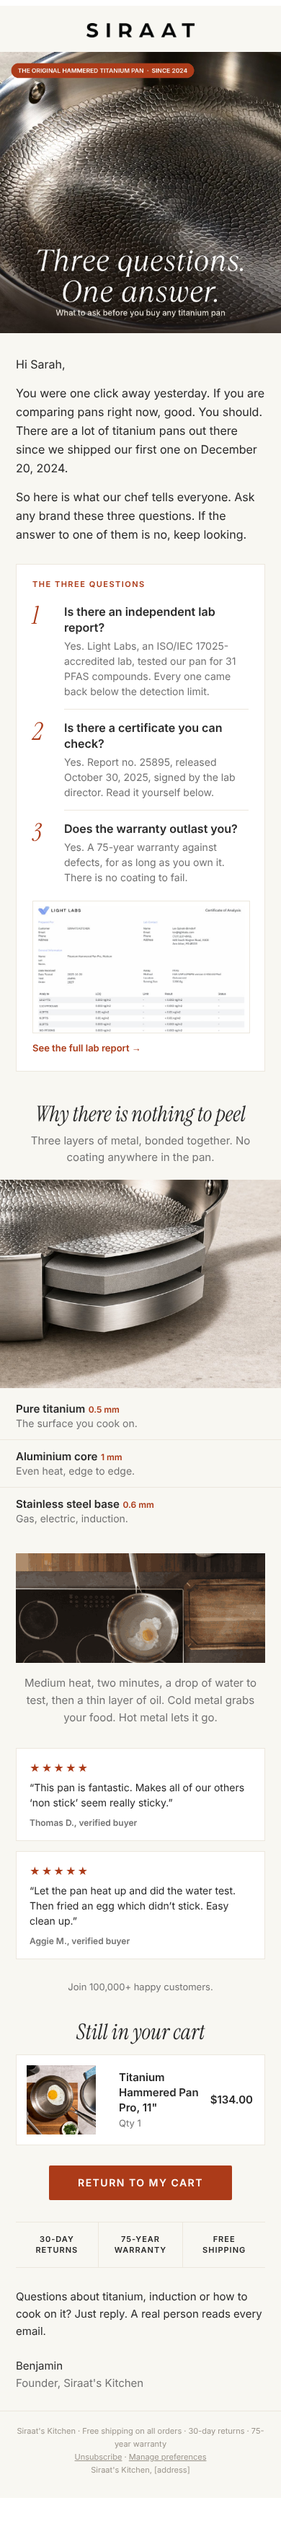
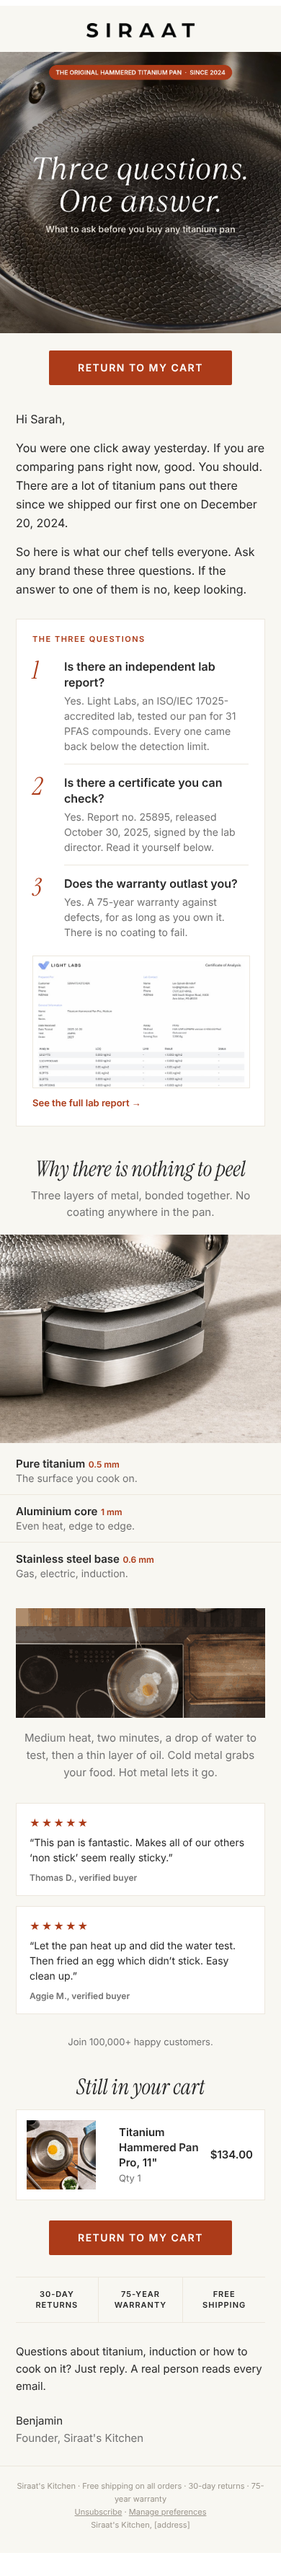
C2: gecentreerde hero en knop onder de hero; make_hero.py en build_template.py; PLAYBOOK hoofdstuk 10
Claude-Session: https://claude.ai/code/session_01HjCaDE95ohEXY6DPZTSH67

Changed region(s): [[0.0, 0.0, 1.0, 0.9977], [0.4615, 0.9665, 0.5231, 0.9977], [0.5538, 0.9665, 0.5846, 0.9977]]

diff --git a/klaviyo/templates/c2-why-siraat.klaviyo.html b/klaviyo/templates/c2-why-siraat.klaviyo.html
@@ -38,7 +38,16 @@
 
 <!-- HERO: shoot photo + TT Ramillas headline baked in -->
 <tr><td style="padding:0;">
-  <a href="{{ event.extra.responsive_checkout_url|default:'https://siraatskitchen.com/cart' }}"><img src="https://cdn.klaviyomail.com/company/TdtTzz/images/eb2b36f3-3a7f-4d87-b083-2fc91c0c451a.jpeg" width="600" alt="Three questions. One answer. What to ask before you buy any titanium pan." style="width:100%;max-width:600px;height:auto;"></a>
+  <a href="{{ event.extra.responsive_checkout_url|default:'https://siraatskitchen.com/cart' }}"><img src="https://cdn.klaviyomail.com/company/TdtTzz/images/df9ba57d-f014-4222-9614-5adf68364bcd.jpeg" width="600" alt="Three questions. One answer. What to ask before you buy any titanium pan." style="width:100%;max-width:600px;height:auto;"></a>
+</td></tr>
+
+<!-- CTA under hero -->
+<tr><td align="center" style="padding:24px 44px 4px 44px;">
+  <table role="presentation" cellpadding="0" cellspacing="0" border="0"><tr>
+    <td align="center" bgcolor="#AC3B19" style="background:#AC3B19;border-radius:2px;">
+      <a href="{{ event.extra.responsive_checkout_url|default:'https://siraatskitchen.com/cart' }}" style="display:inline-block;padding:16px 40px;font-family:Inter,Arial,Helvetica,sans-serif;font-size:14px;line-height:16px;font-weight:600;letter-spacing:1.5px;color:#FFFFFF;text-decoration:none;">RETURN TO MY CART</a>
+    </td>
+  </tr></table>
 </td></tr>
 
 <!-- INTRO -->

diff --git a/klaviyo/templates/c2-why-siraat.html b/klaviyo/templates/c2-why-siraat.html
@@ -41,6 +41,15 @@
   <a href="{{ event.extra.responsive_checkout_url|default:'https://siraatskitchen.com/cart' }}"><img src="{{IMG}}/hero.jpg" width="600" alt="Three questions. One answer. What to ask before you buy any titanium pan." style="width:100%;max-width:600px;height:auto;"></a>
 </td></tr>
 
+<!-- CTA under hero -->
+<tr><td align="center" style="padding:24px 44px 4px 44px;">
+  <table role="presentation" cellpadding="0" cellspacing="0" border="0"><tr>
+    <td align="center" bgcolor="#AC3B19" style="background:#AC3B19;border-radius:2px;">
+      <a href="{{ event.extra.responsive_checkout_url|default:'https://siraatskitchen.com/cart' }}" style="display:inline-block;padding:16px 40px;font-family:Inter,Arial,Helvetica,sans-serif;font-size:14px;line-height:16px;font-weight:600;letter-spacing:1.5px;color:#FFFFFF;text-decoration:none;">RETURN TO MY CART</a>
+    </td>
+  </tr></table>
+</td></tr>
+
 <!-- INTRO -->
 <tr><td class="pad" style="padding:30px 44px 6px 44px;font-family:Inter,Arial,Helvetica,sans-serif;font-size:16px;line-height:26px;color:#282828;">
   <p style="margin:0 0 14px 0;">Hi {{ first_name|default:'there' }},</p>

diff --git a/klaviyo/templates/c2-preview.html b/klaviyo/templates/c2-preview.html
@@ -41,6 +41,15 @@
   <a href="#"><img src="c2-assets/hero.jpg" width="600" alt="Three questions. One answer. What to ask before you buy any titanium pan." style="width:100%;max-width:600px;height:auto;"></a>
 </td></tr>
 
+<!-- CTA under hero -->
+<tr><td align="center" style="padding:24px 44px 4px 44px;">
+  <table role="presentation" cellpadding="0" cellspacing="0" border="0"><tr>
+    <td align="center" bgcolor="#AC3B19" style="background:#AC3B19;border-radius:2px;">
+      <a href="#" style="display:inline-block;padding:16px 40px;font-family:Inter,Arial,Helvetica,sans-serif;font-size:14px;line-height:16px;font-weight:600;letter-spacing:1.5px;color:#FFFFFF;text-decoration:none;">RETURN TO MY CART</a>
+    </td>
+  </tr></table>
+</td></tr>
+
 <!-- INTRO -->
 <tr><td class="pad" style="padding:30px 44px 6px 44px;font-family:Inter,Arial,Helvetica,sans-serif;font-size:16px;line-height:26px;color:#282828;">
   <p style="margin:0 0 14px 0;">Hi Sarah,</p>

diff --git a/scripts/make_hero.py b/scripts/make_hero.py
@@ -1,0 +1,35 @@
+"""Siraat e-mail hero: foto + kop (TT Ramillas) + subregel, altijd exact gecentreerd.
+Gebruik: python3 -I scripts/make_hero.py <foto> <uit.jpg> "<kopregel 1|kopregel 2>" "<subregel>" ["<LABEL>"]
+- Kop en subregel staan als blok precies in het midden van het beeld (horizontaal en verticaal).
+- Gelijkmatige donkere laag plus een zachte vignet in het midden, zodat de tekst op elke foto leesbaar is.
+- 1200x1200 (vierkant), uitsnede uit het midden van de foto.
+"""
+import sys
+from PIL import Image, ImageDraw, ImageFont, ImageFilter
+R='/home/user/siraat-email-agent/'
+TT=R+'klaviyo/fonts/TTRamillas-LightItalic.ttf'
+INTERM='/usr/share/fonts/opentype/inter/Inter-Medium.otf'
+INTERS='/usr/share/fonts/opentype/inter/Inter-SemiBold.otf'
+src,out,head,sub=sys.argv[1:5]; label=sys.argv[5] if len(sys.argv)>5 else ''
+S=1200
+im=Image.open(src).convert('RGB'); w,h=im.size; m=min(w,h)
+im=im.crop(((w-m)//2,(h-m)//2,(w-m)//2+m,(h-m)//2+m)).resize((S,S),Image.LANCZOS)
+# overall darken + soft centre darkening for contrast
+dark=Image.new('RGB',(S,S),(18,13,11)); im=Image.blend(im,dark,0.30)
+mask=Image.new('L',(S,S),0); md=ImageDraw.Draw(mask); md.ellipse((80,330,S-80,S-330),fill=150); mask=mask.filter(ImageFilter.GaussianBlur(140))
+im=Image.composite(dark,im,mask)
+d=ImageDraw.Draw(im)
+fh=ImageFont.truetype(TT,132); fs=ImageFont.truetype(INTERM,38)
+lines=head.split('|'); lh=138; gap=52
+sub_h=46 if sub else 0
+block=len(lines)*lh+(gap+sub_h if sub else 0)
+y=(S-block)//2 - 8
+for ln in lines:
+    tw=d.textlength(ln,font=fh); d.text(((S-tw)/2,y),ln,font=fh,fill=(255,255,255)); y+=lh
+if sub:
+    y+=gap; tw=d.textlength(sub,font=fs); d.text(((S-tw)/2,y),sub,font=fs,fill=(240,236,228))
+if label:
+    fl=ImageFont.truetype(INTERS,26); tw=d.textlength(label,font=fl)
+    x0=(S-tw-56)/2; y0=56
+    d.rounded_rectangle((x0,y0,x0+tw+56,y0+62),radius=31,fill=(172,59,25)); d.text((x0+28,y0+15),label,font=fl,fill=(255,255,255))
+im.save(out,quality=84); print(out)

diff --git a/scripts/build_template.py b/scripts/build_template.py
@@ -1,0 +1,18 @@
+"""Bouwt Klaviyo-HTML en een lokale preview uit een bron-template met {{IMG}}.
+Gebruik: python3 -I scripts/build_template.py <bron.html> <assets-map> <urls.txt>
+Schrijft <bron>.klaviyo.html (CDN-links) en <bron-zonder-.html>-preview.html (lokale beelden, voorbeelddata)."""
+import sys,re,os
+src,assets,urls=sys.argv[1:4]
+u=dict(l.split() for l in open(urls) if l.strip())
+h=open(src).read(); k=h
+for a,b in sorted(u.items(),key=lambda x:-len(x[0])): k=k.replace('{{IMG}}/'+a,b)
+assert '{{IMG}}' not in k, 'ontbrekende CDN-link'
+base=src[:-5]; open(base+'.klaviyo.html','w').write(k)
+p=h.replace('{{IMG}}',os.path.basename(assets.rstrip('/')))
+m=re.search(r'\{% for item in event.extra.line_items %\}\{% if forloop.counter <= 3 %\}(.*?)\{% endif %\}\{% endfor %\}',p,re.S)
+if m:
+    r=re.sub(r"\{\{ item.product.images.0.src[^}]*\}\}",os.path.basename(assets.rstrip('/'))+'/cart-fallback.jpg',m.group(1)).replace('{{ item.title }}','Titanium Hammered Pan Pro, 11"').replace('{{ item.quantity|floatformat:0 }}','1').replace('{{ item.line_price|floatformat:2 }}','134.00')
+    p=p[:m.start()]+r+p[m.end():]
+p=re.sub(r"\{\{ first_name[^}]*\}\}",'Sarah',p);p=re.sub(r"\{\{ event[^}]*\}\}",'#',p)
+p=p.replace("{% unsubscribe 'Unsubscribe' %}",'<a href="#" style="color:#9A948B;">Unsubscribe</a>').replace('{% manage_preferences_url %}','#').replace('{{ organization.name }}',"Siraat's Kitchen").replace('{{ organization.full_address }}','[address]')
+open(base+'-preview.html','w').write(p); print('ok',base)

diff --git a/PLAYBOOK.md b/PLAYBOOK.md
@@ -97,3 +97,10 @@ Let op: de brand guidelines (site) gebruiken Inter voor koppen en Terracotta #C7
 - Cloud-sessies in "Auto"-modus blokkeren wijzigingen aan live flows, ook met mondeling akkoord. Voor bouwwerk aan live flows: gewone modus en één keer "Allow".
 - Klaviyo-API-key zit als credential in de omgeving (header Authorization: Klaviyo-API-Key, host a.klaviyo.com). Scopes: flows full, templates read, metrics read, segments read. Voor campagnes en profielen is een aparte key nodig.
 - Routines (geplande taken) uit een sessie krijgen geen connectors mee. Routines die Slack of Klaviyo-MCP nodig hebben, worden in de claude.ai Routines-UI aangemaakt met de prompt uit `ROUTINES.md`.
+
+## 10. Vaste opbouw van een flow-mail (vanaf 7 oktober 2026)
+
+- Hero 1200x1200 via `scripts/make_hero.py`: kop in TT Ramillas en subregel als blok exact in het midden van het beeld, label bovenin gecentreerd. Altijd een shoot-foto of geverifieerde Shopify-foto, nooit twee keer dezelfde in één flow.
+- Direct onder de hero de primaire knop (in checkout en cart: "Return to my cart"). Dezelfde knop nog één keer onderaan.
+- HTML en preview bouwen met `scripts/build_template.py`; beelden in de Klaviyo-bibliotheek, links in `<assets>/klaviyo-urls.txt`.
+- Beelden met labels krijgen op mobiel een aparte versie zonder labels plus live tekst eronder.

diff --git a/LOG.md b/LOG.md
@@ -50,3 +50,4 @@ Nieuwste bovenaan. Elke regel: datum, wat er gedaan is, wat het opleverde of wat
 - 2026-10-07 · Voorbeeldmail C2 Why Siraat gebouwd als nieuwe standaard (template Yn7nyJ, niet live). 65 eigen beelden naar Shopify Files (email-*). Register af. Trustpilot nog geblokkeerd in deze container.
 - 2026-10-07 · Baselines vastgelegd (baselines/, 90 dagen tot 6 okt): flows 10,8% van omzet, welcome $2,53 per nieuwe inschrijver, checkout-recovery 0,97%, campagnes tekst $0,118 vs beeld $0,080 per ontvanger, uitschrijf 0,54%, spam 0,042%. C2-voorbeeld in Figma kit (04 Samples).
 - 2026-10-07 · C2: getekende lagen vervangen door fotorealistische doorsnede (Higgsfield gpt_image_2_5 met shoot-foto P11-C als referentie, labels in Inter via scripts/label_anatomy.py). Mobiel: aparte uitsnede plus lagen als live tekst. Template Yn7nyJ bijgewerkt.
+- 2026-10-07 · C2: hero met kop en subregel exact gecentreerd (scripts/make_hero.py), knop Return to my cart direct onder de hero, build-script voor templates. Opbouw vastgelegd in PLAYBOOK hoofdstuk 10.
